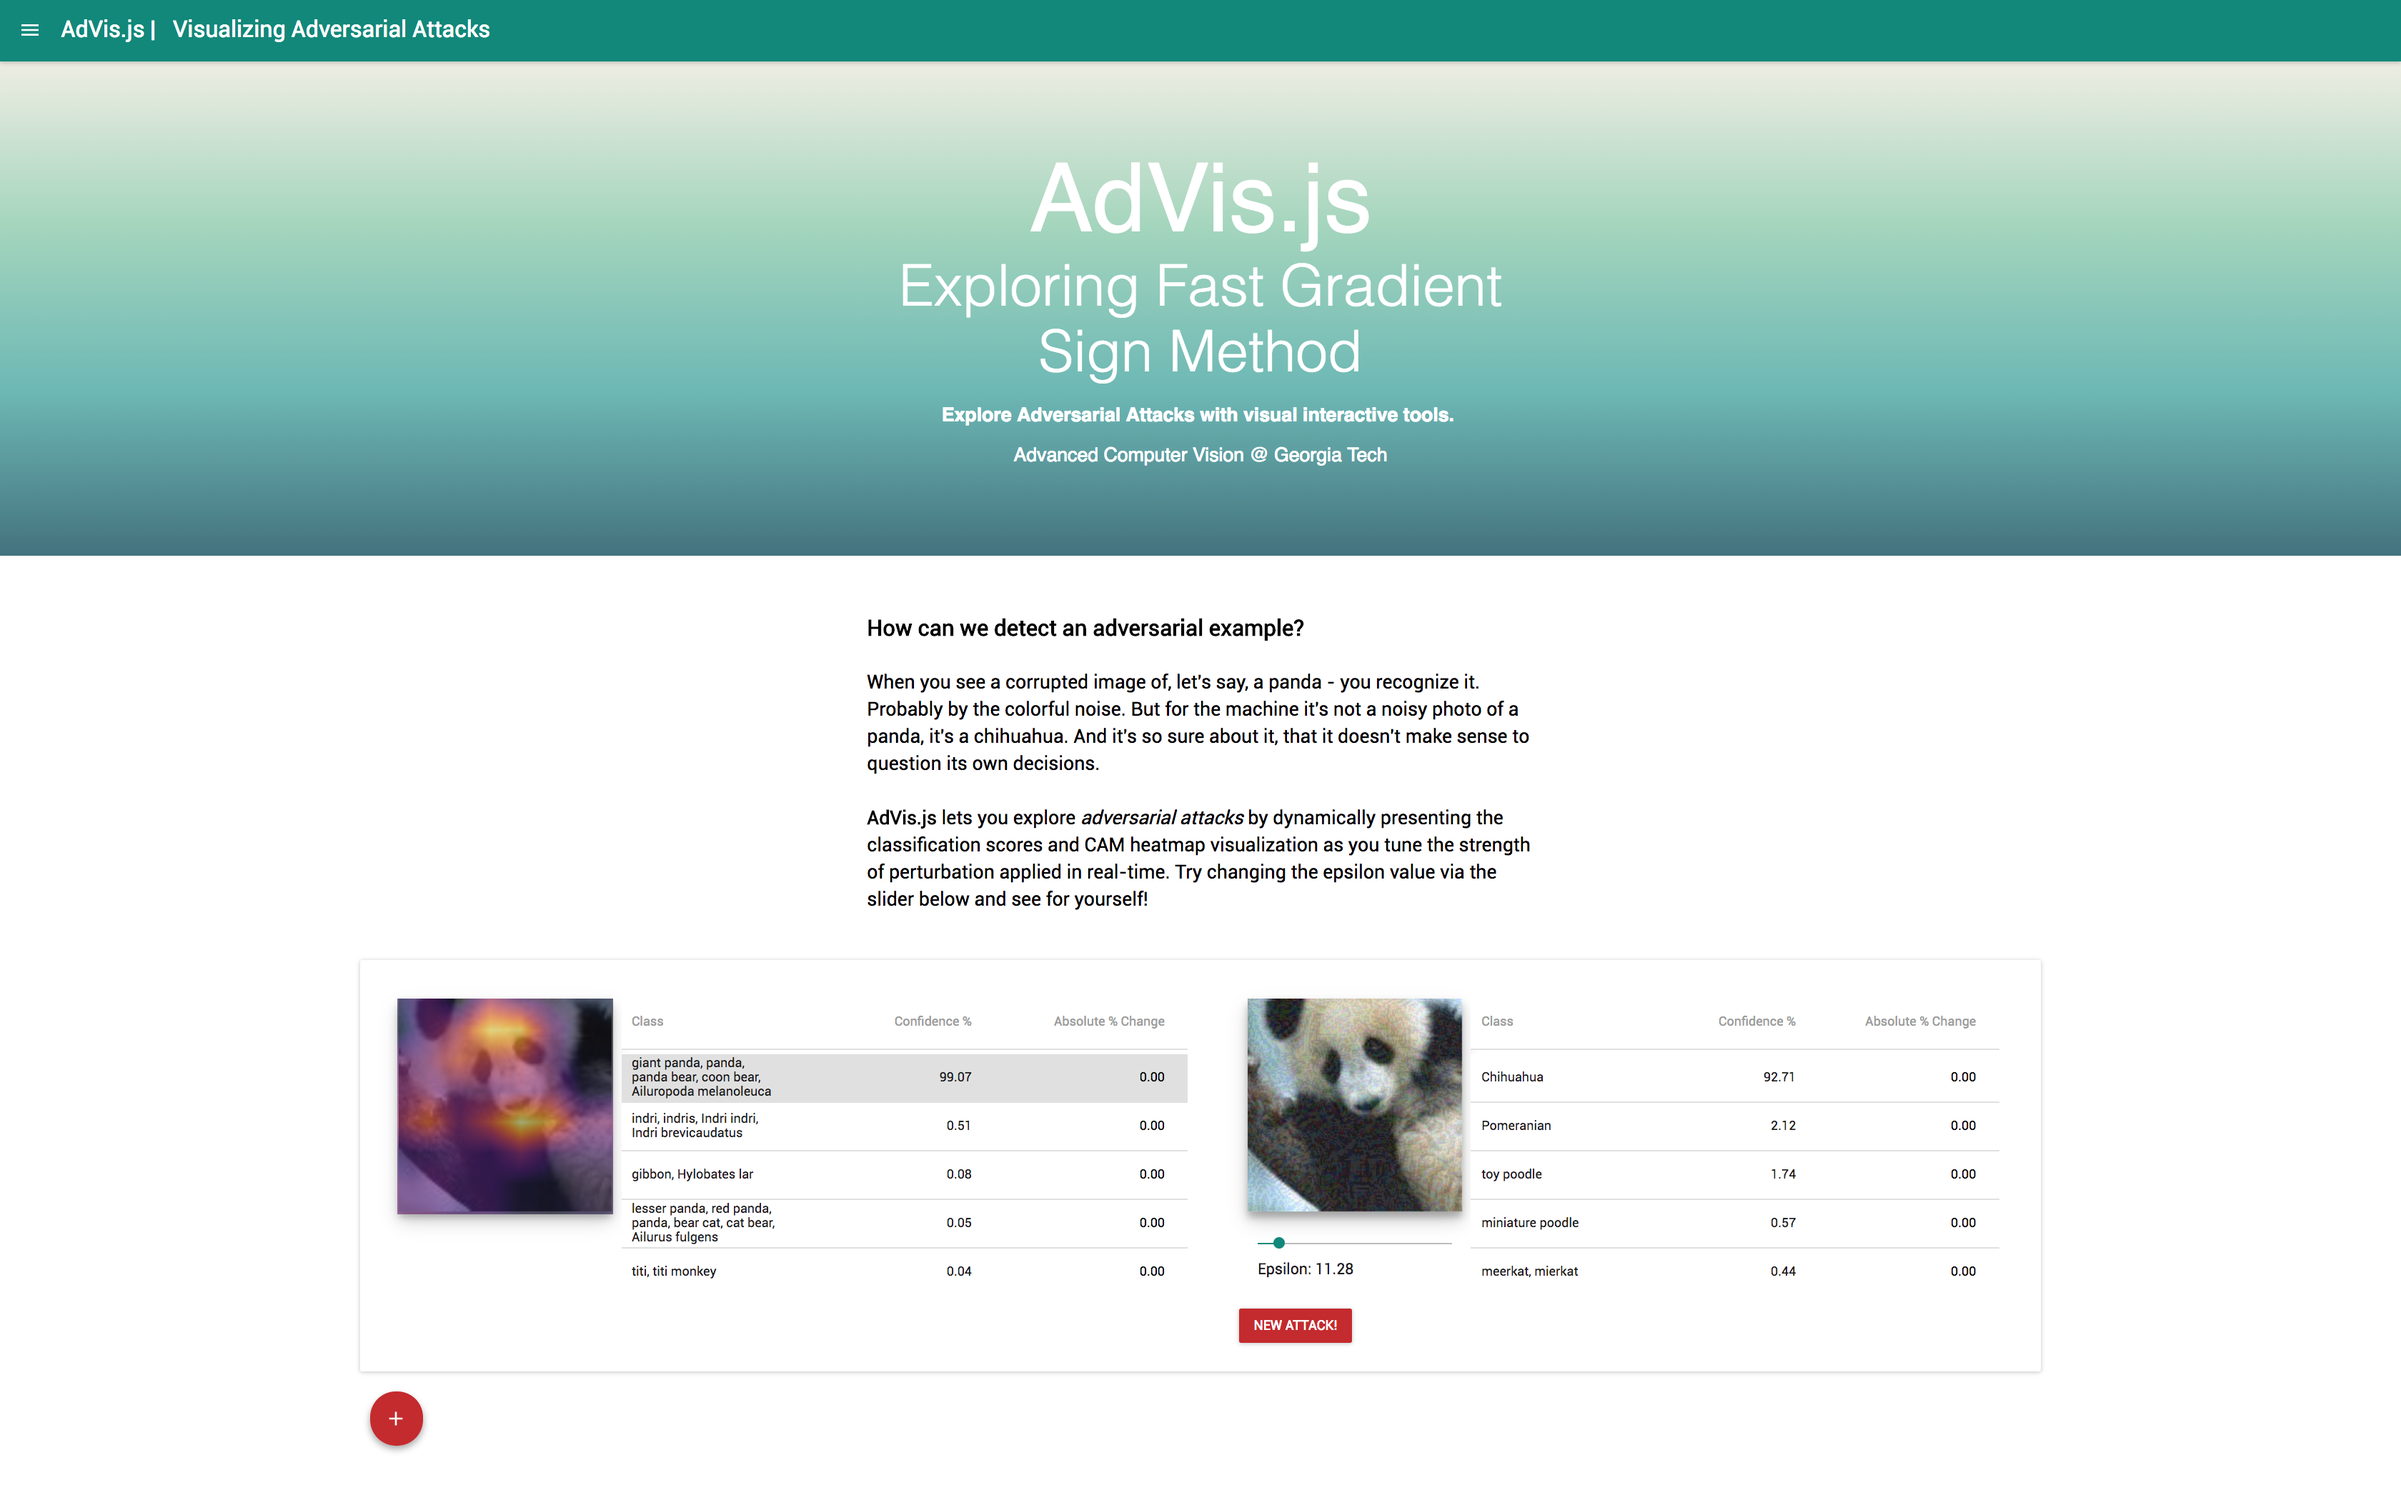
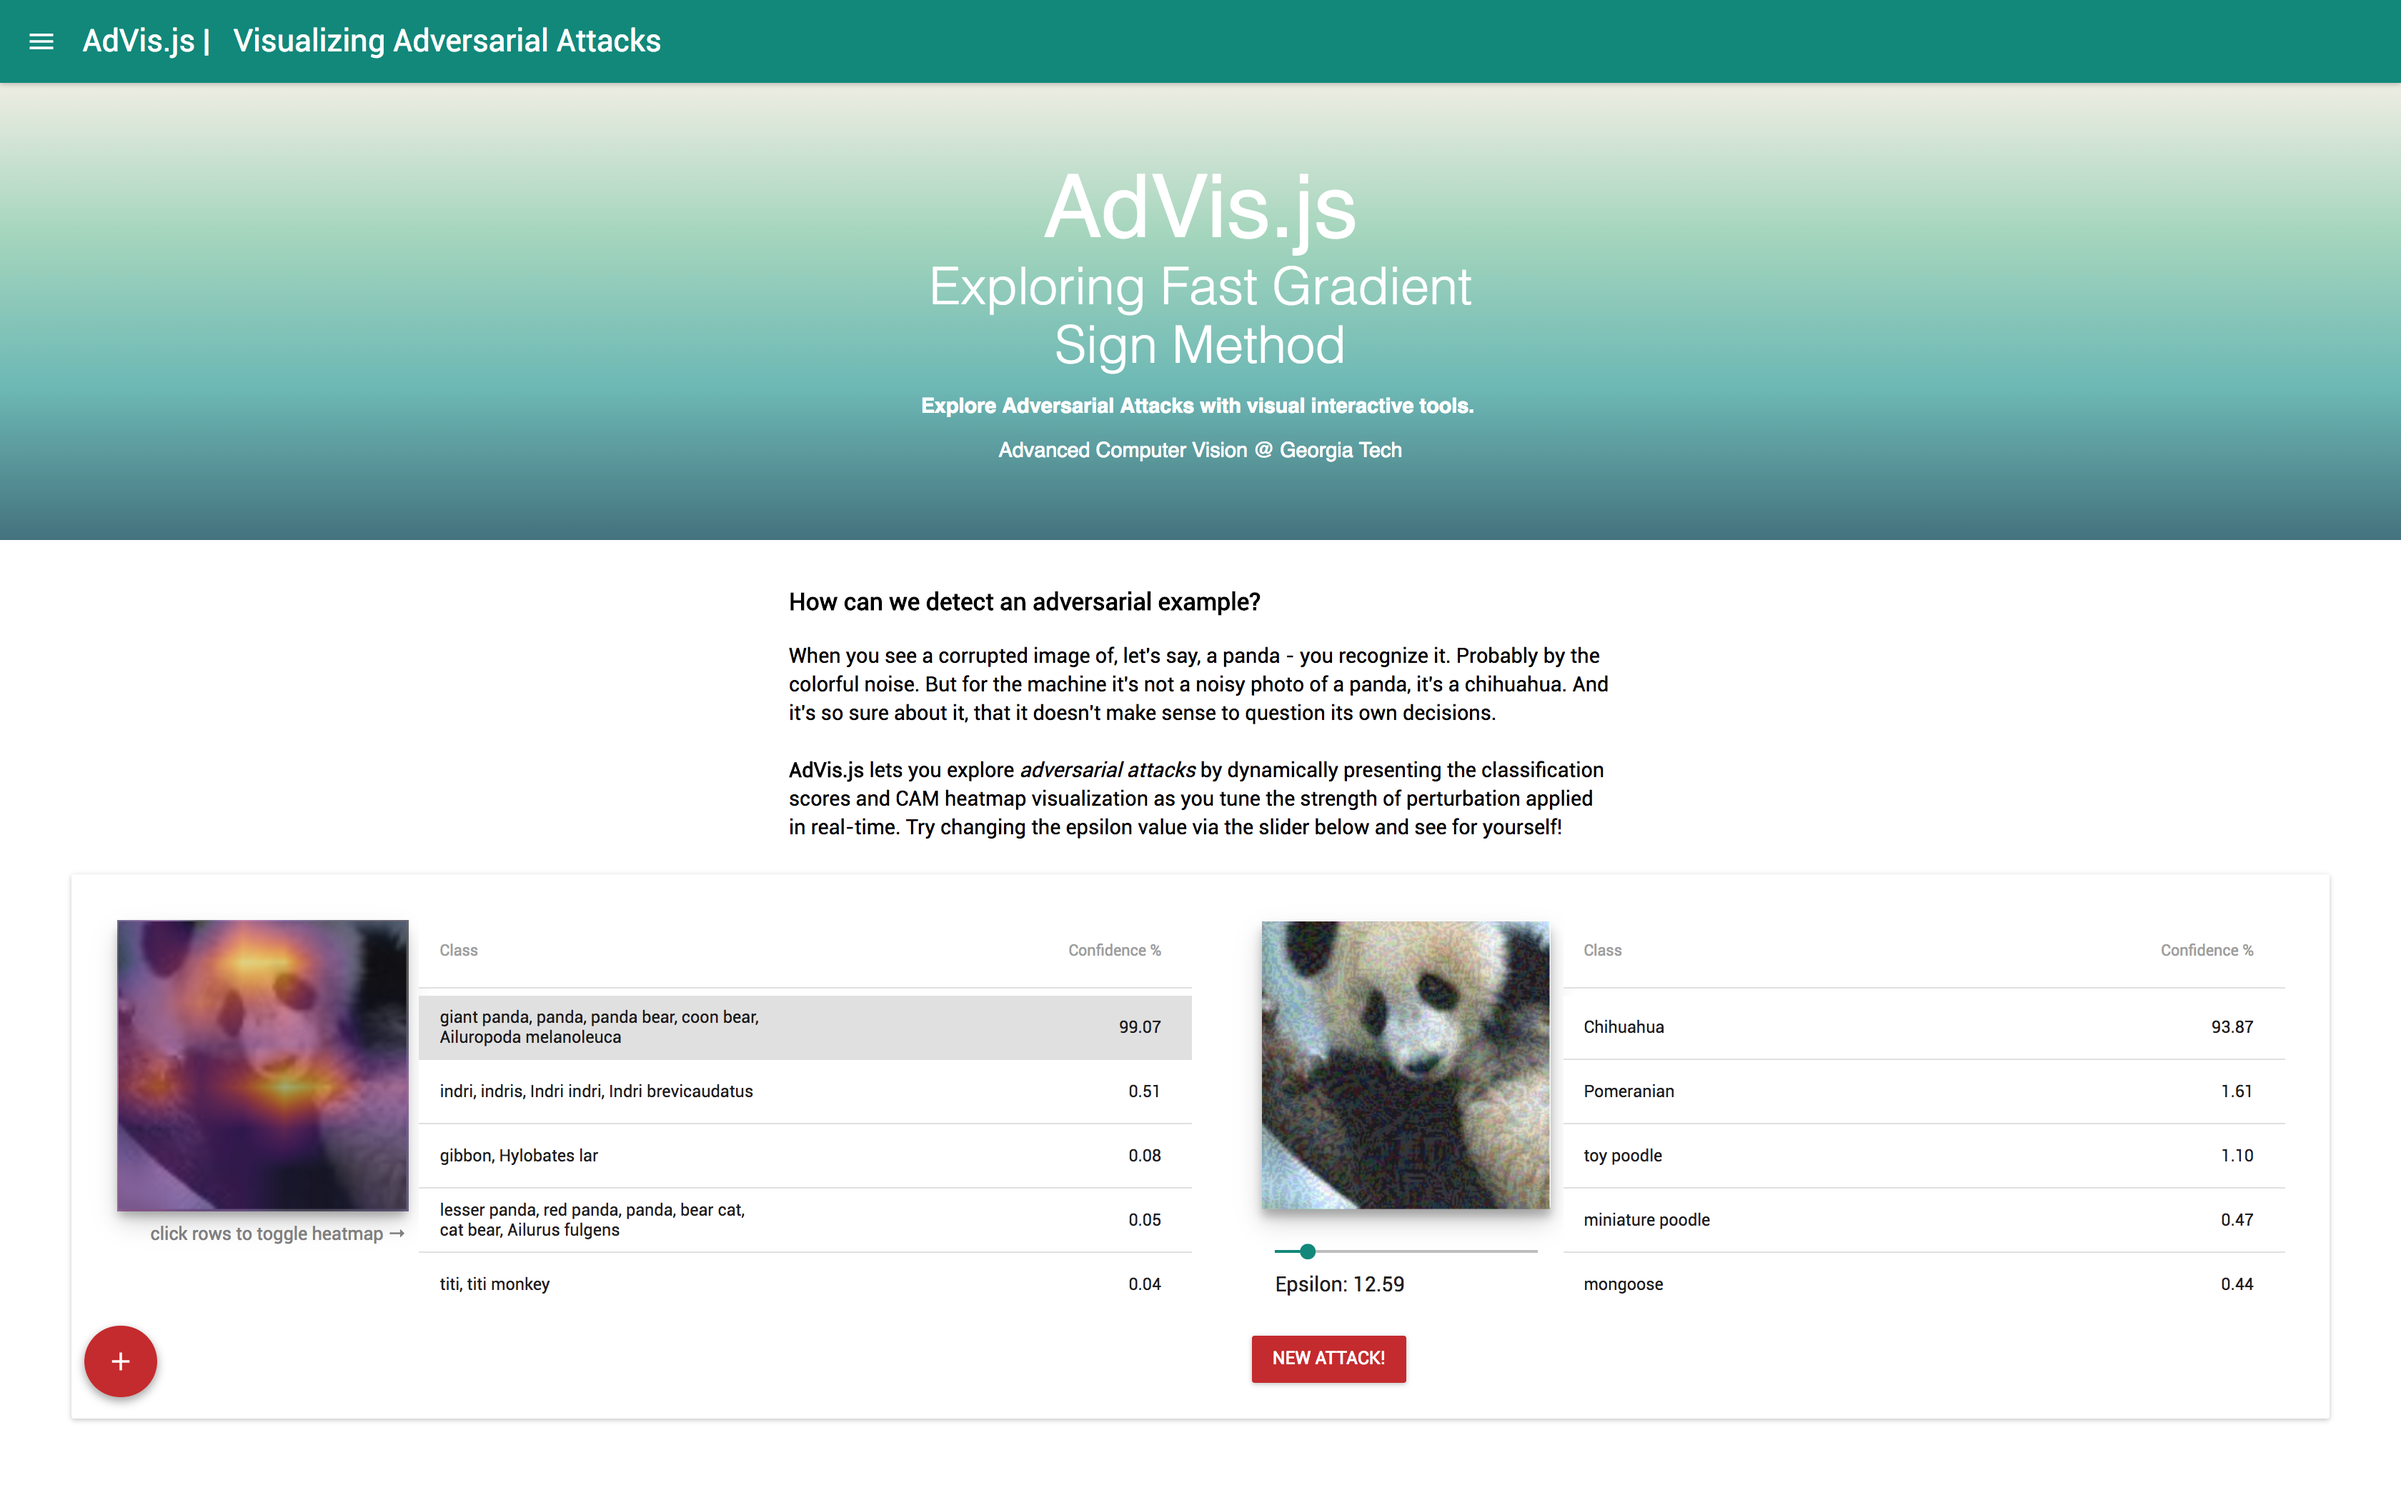
README.md changes

diff --git a/src/App.css b/src/App.css
@@ -121,13 +121,13 @@
 /* Explanations */
 .Explanation-intro {
   /*color: #111;*/
-  max-width: 700px;
+  max-width: 640px;
   /*padding: 0 25px;*/
   margin: auto;
   margin-top: 35px;
 
   font-size: 16px;
-  line-height: 1.5;
+  line-height: 1.4;
   font-family: Roboto;
 }
 
@@ -147,7 +147,7 @@
 .toolBox {
   max-width: 94%;
   margin: auto;
-  margin-top: 22px;
+  margin-top: 25px;
   margin-bottom: 0px;
 }
 
